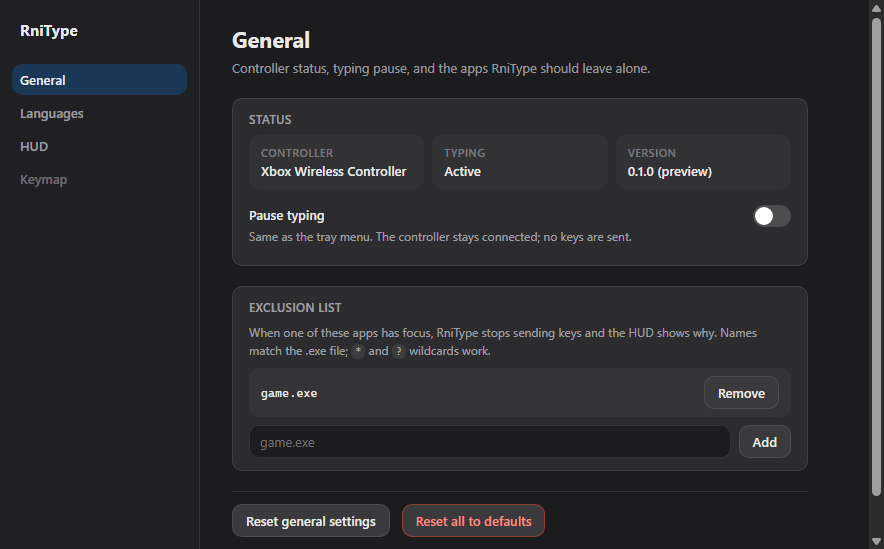
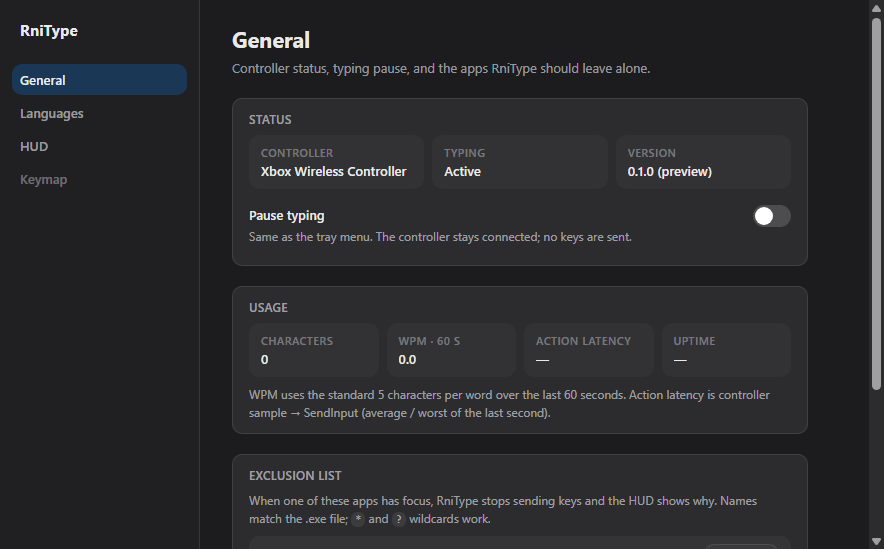
docs: ADR-26 + handoff v1.0 for P6 slice 1

diff --git a/project menager/Design/HANDOFF.md b/project menager/Design/HANDOFF.md
@@ -1,11 +1,11 @@
 ---
 title: HANDOFF — RniType (อ่านก่อนเริ่ม session ใหม่)
-status: v0.9
+status: v1.0
 updated: 2026-11-16
 tags: [handoff]
 ---
 
-# HANDOFF — RniType v0.9 (2026-11-16)
+# HANDOFF — RniType v1.0 (2026-11-16)
 
 > เอกสารนี้ทำให้ session ใหม่ทำงานต่อได้ใน \~5 นาที · อ่านจบ = รู้ทุกอย่างที่จำเป็น
 
@@ -15,11 +15,11 @@ tags: [handoff]
 | --- | --- |
 | ผลิตภัณฑ์ | Windows background utility: จอย Xbox/DualSense ใช้ **พิมพ์แทนคีย์บอร์ด** และ **แทนเมาส์** มีหน้าตั้งค่าแบบ Logi Options+ |
 | ช่องทางขาย | Steam + itch.io (ทั้งคู่รับ .exe/.zip — ไม่ต้องใช้เอนจิน) |
-| สถานะ | **P0/P1 ปิด · P2 slice 4 · P3 slice 2 · P4/P5 slice 1–2 · visual refresh (ADR-22) · runtime จอยจริงพิมพ์ได้ — 201 tests** |
+| สถานะ | **P0/P1 ปิด · P2 slice 4 · P3 slice 2 · P4/P5 slice 1–2 · P6 slice 1 (WPM/latency) · visual refresh (ADR-22) — 205 tests** |
 | สแตก | **Rust** (core) + **Tauri v2** (UI/tray) + **gilrs** (จอย, XInput) + `SendInput` (auto scancode/Unicode) |
 | แผนสำรอง | C# .NET 8 + WPF/WinUI (ถอยได้ทุกเมื่อ เอกสารใช้ร่วมกันได้) |
-| งานถัดไป | **P5 Keymap editor** (ต้อง universal QWERTY mapping) หรือ **P6** วัด WPM/latency/installer |
-| ค้างยืนยัน | owner retest ADR-20 + quick bar/caret/sticky drag + exclusion/scancode + **Settings General/Languages บนแอปจริง** — ดู §4.8 |
+| งานถัดไป | **P5 Keymap editor** (ต้อง universal QWERTY mapping) หรือ **P6 ที่เหลือ** (error rate/CPU, installer) |
+| ค้างยืนยัน | owner retest ADR-20 + quick bar/caret/sticky drag + exclusion/scancode + Settings + **WPM/latency กับจอยจริง** — ดู §4.8 |
 
 ## 2. การตัดสินใจที่ล็อกแล้ว (ห้ามถามซ้ำ)
 
@@ -46,6 +46,7 @@ tags: [handoff]
 22. **P2 slice 4 (ADR-23)**: **Quick bar = LB ค้าง 150 ms** (แตะสั้นไม่เปิด · ปล่อย LB = ปิด · ดัน LS = ปิดแล้วพิมพ์ Ctrl+ตัวอักษร) ช่อง ↑Copy ↗Paste →Cut ↘Undo ↓Redo ↙Select All ←Save ↖Alt+Tab · **caret = R3** (RS = ลูกศร 350/90 ms · R3×2 < 280 ms = Shift+ลูกศร · ไม่มีวง เหลือกากบาท) · **sticky drag = RB 2 แตะ** ใน Mouse (แตะอีกครั้ง = ปล่อย; session ปล่อยปุ่มให้เมื่อสลับ mode) · **pivot clamp ฝั่งแอป** margin 172×`hudScale` จากขอบ virtual desktop · `KeyPress` มี `alt` แล้ว — [[23-quickbar-caret-sticky-drag-pivot-clamp]]
 23. **P3 slice 2 (ADR-24)**: **exclusion/UIPI guard** ตรวจ foreground ทุก 250 ms → exe ใน `system.exclusion` หรือ target elevated → หยุด `session.step`, HUD `disabled` + เหตุผล, กลับมาเป็น mode เดิม · **scancode path อัตโนมัติ** (`VkKeyScanExW` + `MapVirtualKeyExW` ตาม HKL ของ foreground) → เกม/IME เห็นเหมือนคีย์บอร์ดจริง, พิมพ์ไม่ได้ = Unicode fallback, `--no-scancode` ปิดได้ · **`timeBeginPeriod(1)`** ระหว่างรัน loop — [[24-target-guard-scancode-timer]]
 24. **P5 slice 2 (ADR-25)**: **General** = status (`get_status`/`app:status`) + Pause + **exclusion list UI** · **Languages** = `GetKeyboardLayoutList` → EN/TH built-in แสดงเสมอ, EN = base (locked), ภาษาอื่นต้องมี mapping, เปิดได้ ≤ 8 · **live reload** `config_rev` → runtime เปลี่ยนภาษา/pivot clamp ภายใน 250 ms · Reset แยก section (general/hud/languages/all) — [[25-settings-general-languages-live-reload]]
+25. **P6 slice 1 (ADR-26)**: **WPM = 5 ตัวอักษร/คำ ในหน้าต่าง 60 วิ** (นับเฉพาะ `Key::Char`) · **action latency** = เวลา `session.step` (avg/max ต่อวินาที) · log `[stats]` ทุก 10 วิ + การ์ด Usage ใน Settings General (`get_stats`) — [[26-usage-stats-wpm-latency]]
 
 ## 3. โครงสร้างไฟล์
 
@@ -79,7 +80,8 @@ project menager/
    │  ├─ 22-visual-refresh-apple-style.md ← ADR-22 tokens/HUD plate/Settings sidebar
    │  ├─ 23-quickbar-caret-sticky-drag-pivot-clamp.md ← ADR-23 quick bar/caret/sticky drag/pivot clamp
    │  ├─ 24-target-guard-scancode-timer.md ← ADR-24 exclusion/UIPI · scancode · 1 ms timer
-   │  └─ 25-settings-general-languages-live-reload.md ← ADR-25 General/Languages · exclusion UI · live reload
+   │  ├─ 25-settings-general-languages-live-reload.md ← ADR-25 General/Languages · exclusion UI · live reload
+   │  └─ 26-usage-stats-wpm-latency.md ← ADR-26 WPM 60 วิ · action latency · Usage cards
    └─ 05-mockup/
       ├─ hud-prototype/        ← ม็อกอัป HUD v0.11 (อ้างอิงดีไซน์ ไม่ใช่ของจริง)
       └─ hud-shots/            ← screenshot ตรวจรับ (100%/150% DPI, overlay จริง, Settings, runtime)
@@ -100,8 +102,9 @@ project menager/
 | `crates/rnitype-win/src/target.rs` | foreground exe + elevated (exclusion/UIPI guard) |
 | `crates/rnitype-win/src/timer.rs` | `timeBeginPeriod(1)` แบบ RAII |
 | `crates/rnitype-win/src/language.rs` | `GetKeyboardLayoutList` → code/label/kind (layout vs IME) |
+| `crates/rnitype-app/src/stats.rs` | WPM (5 ตัวอักษร/คำ) · format latency/uptime |
 | `ui/hud/{index.html,hud.css,hud.js}` | HUD จริง — วาดจาก `hud:state` · typography จาก `hud:style` |
-| `ui/settings/*` | Settings window — General (status/pause/exclusion) · Languages (rescan) · HUD (size/font) · Reset |
+| `ui/settings/*` | Settings window — General (status/pause/exclusion/usage) · Languages (rescan) · HUD (size/font) · Reset |
 | `ui/shared/{tokens.css,fonts.css,fonts.js,fonts/*.ttf}` | สี + ฟอนต์ (IBM Plex Sans Thai + Noto Sans Thai + OFL) |
 | `tools/tests/{browser,hud-smoke,hud-typography,settings-smoke}.mjs` | CDP · 54 mockup · 36 HUD · 19 Settings checks |
 
@@ -123,13 +126,14 @@ project menager/
 | P2 core | วงคำสั่ง/วงภาษา/mode/shift/face buttons + **slice 3: mouse math, Nav pivot, auto-repeat, layer 2, double-tap/hold** + **slice 4: quick bar, caret nav, sticky drag, pivot clamp** (98 tests) | — (P2 ปิด; เหลือแค่ mixed-DPI) |
 | P3 win | SendInput Unicode/VK/mouse + **HWheel** + Ctrl+ASCII→VK + **Alt** + **scancode auto** + **exclusion/UIPI guard** + **1 ms timer** (56 tests) | Task Scheduler/"Run as admin" (P6) |
 | P4 HUD | renderer ครบ mode + overlay + typography + **visual refresh ADR-22** + **quickbar/caret mode** + `HudState` จริง (+ `layer`/`repeat`/`pointer`) (36 checks) | latency, pivot per-monitor/mixed-DPI |
-| Runtime | `input.rs` + `session.rs` + tray Pause + resend/heartbeat + single instance + **mouse/Nav recenter/reset** + **sticky-drag safety release** + **pivot clamp** + **guard/pause คืน mode เดิม** + **live config reload** | ทดสอบ mouse/Nav/quickbar/caret กับจอยจริง |
-| P5 Settings | slice 1: หน้าต่าง + HUD tab + persist · slice 2: **General (status/pause/exclusion) + Languages (rescan/enable) + Reset แยกส่วน + live reload** (19 checks) | Keymap editor (รอ universal mapping) · profiles · autostart/runAsAdmin จริง |
+| Runtime | `input.rs` + `session.rs` + tray Pause + resend/heartbeat + single instance + **mouse/Nav recenter/reset** + **sticky-drag safety release** + **pivot clamp** + **guard/pause คืน mode เดิม** + **live config reload** + **WPM/commit stats** | ทดสอบ mouse/Nav/quickbar/caret กับจอยจริง |
+| P5 Settings | slice 1: หน้าต่าง + HUD tab + persist · slice 2: **General (status/pause/exclusion) + Languages (rescan/enable) + Reset แยกส่วน + live reload** (20 checks) | Keymap editor (รอ universal mapping) · profiles · autostart/runAsAdmin จริง |
+| P6 measurement | slice 1: **WPM 60 วิ + action latency + uptime** (`[stats]` log + Usage cards) | error rate, CPU, คนจริง, installer/Steam/itch |
 
 ### 4.3 ขั้นถัดไป (เรียง)
 
 1. **P5 Keymap editor** — ต้องทำ universal QWERTY mapping (`ToUnicodeEx`) ใน core ก่อน แล้วค่อยเปิดแท็บ Keymap (8×8 + override + reset group)
-2. **P6** — วัด WPM/latency, ทดสอบคนจริง, installer/Steam/itch, Task Scheduler/"Run as admin"
+2. **P6 ที่เหลือ** — error rate (reference text/diff), CPU/RAM, ทดสอบคนจริง, installer/Steam/itch, Task Scheduler/"Run as admin"
 3. **P2 ที่เหลือ (เล็ก)** — pivot clamp แบบ per-monitor/mixed-DPI (ตอนนี้ clamp ด้วย virtual desktop เดียว)
 
 ### 4.4 รัน / ตรวจ
@@ -143,11 +147,11 @@ crates\rnitype-app\run.ps1 --demo --settings --seconds 30  # HUD จาก state
 ```
 
 ```powershell
-cargo test --workspace                      # 201 tests
+cargo test --workspace                      # 205 tests
 node tools/contracts/validate.mjs           # 12/12
 node tools/tests/hud-smoke.mjs              # 54/54 (ม็อกอัป)
 node tools/tests/hud-typography.mjs         # 36/36 + screenshot
-node tools/tests/settings-smoke.mjs         # 19/19 + screenshot Settings
+node tools/tests/settings-smoke.mjs         # 20/20 + screenshot Settings
 ```
 
 - Tray: **คลิกซ้าย = Settings** · คลิกขวา = Pause typing / Settings… / Quit
@@ -208,6 +212,7 @@ node tools/tests/settings-smoke.mjs         # 19/19 + screenshot Settings
 14. **Settings General (ADR-25)**: เปิด Settings → Controller ต้องขึ้นชื่อจอย · ติ๊ก Pause → HUD/pill เป็น Paused · เพิ่ม `notepad.exe` ใน Exclusion → โฟกัส Notepad แล้วพิมพ์ไม่ออก pill บอกเหตุผล · ลบออกแล้วพิมพ์ได้
 15. **Settings Languages (ADR-25)**: เปิดแท็บ Languages → ต้องเห็น EN (Detected/Locked) + TH (Built-in) · ปิด TH → log `[config] runtime reload: languages=0` และวงภาษาไม่มี TH · เปิดกลับ → มี TH
 16. **Reset (ADR-25)**: Reset languages → config `languages: []` (EN/TH กลับมา) · Reset general **ต้องไม่ลบ exclusion** · Reset all คืนทั้งไฟล์
+17. **Usage stats (ADR-26)**: เปิด Settings → General → พิมพ์ด้วยจอยจริง ~1 นาที → Characters/WPM ต้องขยับ · log ต้องมี `[stats] chars=… wpm=… step avg=… max=… uptime=…` ทุก 10 วิ · รายงาน WPM ไทย/อังกฤษเทียบเป้า 12/20
 
 ### 4.9 P2 slice 4 (2026-11-16) — ✅ ปิดแล้ว (ADR-23)
 
@@ -240,6 +245,17 @@ node tools/tests/settings-smoke.mjs         # 19/19 + screenshot Settings
 | Reset | `reset_config { section }` — general ไม่ล้าง exclusion · languages กลับ EN/TH · hud เฉพาะ typography · all = default |
 | ตัวเลข | cargo **201** (core 98 · win 56 · app 47) · settings-smoke **19/19** · E2E WebView จริง: ปิด TH → `languages=0`, เปิด → `languages=1`; exclusion add/remove เขียน config ถูก |
 
+### 4.12 P6 slice 1 (2026-11-16) — ✅ ปิดแล้ว (ADR-26)
+
+| เรื่อง | ผล |
+| --- | --- |
+| WPM | `Session` เก็บ commit 60 วิ (เฉพาะ `Key::Char`) → WPM = chars/5 · ไม่นับปุ่ม named/เมาส์/คีย์ลัด |
+| Action latency | วัดเวลา `session.step` (state machine + SendInput) เป็น avg/max ต่อวินาที |
+| Log | `[stats] chars=15 wpm=3.0 actions=15 step avg=0.005 ms max=0.748 ms uptime=10s` (ทุก 10 วิ) |
+| Settings | General → Usage 4 ช่อง (Characters / WPM · 60 s / Action latency / Uptime) ผ่าน `get_stats` ทุก 1 วิ |
+| E2E จริง | WebView อ่านการ์ดได้ `chars=75 wpm=15.0 latency=0.004/0.85 ms uptime=51s` (fake-pad) |
+| ตัวเลข | cargo **205** (core 98 · win 56 · app 51) · settings-smoke **20/20** |
+
 ## 5. คำถามที่ยังค้าง
 
 | # | เรื่อง | ข้อเสนอ |
@@ -254,7 +270,7 @@ Q1, Q2, Q5, Q15, Q16, Q17 = ตัดสินแล้ว
 ## 6. Environment & เคล็ดลับ debug
 
 - vault = `D:\Erin's Works\Programming\RniType` — เขียนเฉพาะในนี้ · MCP `nizylanote` เรียก `vault_info` ก่อนเขียน
-- **Git**: commit ก่อน session นี้ `4cba441` (handoff v0.8) · P5 slice 2 = `d3f17a2` (+ docs commit ถัดจากนั้น) · commit งานเป็นชุด `feat(...)` + `docs(...)` (`.nznote/`, `.opencode/` ถูก ignore)
+- **Git**: commit ก่อน session นี้ `4cba441` (handoff v0.8) · P5 slice 2 = `d3f17a2` · P6 slice 1 = `c3a7404` (+ docs commit ถัดจากนั้น) · commit งานเป็นชุด `feat(...)` + `docs(...)` (`.nznote/`, `.opencode/` ถูก ignore)
 - **เทอร์มินัล cp874** → log ไทยใน console เป็น `???` (ไม่ใช่บั๊ก) · ไฟล์เป็น UTF-8
 - **PowerShell กิน `--` ตัวแรก** → `run.ps1` เติมให้แล้ว ใช้ `run.ps1 --seconds 30`
 - `Chrome_WidgetWin_0 ... 1412` ตอนปิด = WebView2 noise ไม่มีผล
@@ -262,6 +278,8 @@ Q1, Q2, Q5, Q15, Q16, Q17 = ตัดสินแล้ว
 - **guard** ตรวจทุก 250 ms — ระหว่างถูกกัน `[pad-log]` ยังเดินแต่ไม่มี `[type]` ออก
 - **Settings → runtime**: เปลี่ยนภาษา/ขนาดวงมีผลภายใน 250 ms ผ่าน `config_rev` · ถ้าไม่เห็น log `[config] runtime reload` แปลว่า command ไม่ได้เขียน config
 - **Languages บนเครื่องนี้**: Windows มี layout EN ตัวเดียว → TH ขึ้นเป็น `Built-in` (ตารางในแอป) ไม่ใช่ `Detected`
+- **WPM จาก `--fake-pad`** (~15–17) เป็นแค่การพิสูจน์ท่อ ไม่ใช่ตัวเลขผู้ใช้จริง — owner ต้องวัดกับจอย
+- **latency** วัดฝั่งเรา (`session.step`) ไม่รวมเวลา OS/เกมประมวลผลคีย์
 - **Chrome headless**: `C:\Users\User\AppData\Local\ms-playwright\chromium-1208\chrome-win64\chrome.exe` (`CHROME_PATH`)
 - เครื่องนี้ 2 จอ: virtual desktop 3840×1080 เริ่มที่ x = −1920 · จอหลัก 1920×1080 (pivot เริ่มที่กลางจอหลัก)
 

diff --git a/project menager/Design/04-decisions/26-usage-stats-wpm-latency.md b/project menager/Design/04-decisions/26-usage-stats-wpm-latency.md
@@ -1,0 +1,55 @@
+---
+title: ADR-26 — Usage stats: WPM + action latency (P6 slice 1)
+status: accepted
+updated: 2026-11-16
+tags: [decision, measurement, stats, settings]
+---
+
+# ADR-26 — P6 slice 1: ตัวเลข WPM / action latency / uptime
+
+## บริบท
+
+Roadmap กำหนดว่า "ทุก loop ต้องมีตัวเลข: WPM, error rate, latency, CPU — ไม่มีตัวเลข = ยังไม่เสร็จ"
+แต่ก่อนหน้านี้ runtime มีแค่ `sent` (จำนวน action) และ log `[type]` — ไม่มี WPM หรือ latency
+ให้ owner ใช้ตัดสินว่าเร็วพอหรือยัง (เป้า M5: 12 WPM ไทย · 20 WPM อังกฤษ)
+
+## การตัดสินใจ
+
+### 1. WPM = 5 ตัวอักษรต่อคำ (หน้าต่าง 60 วินาที)
+
+- `Session` เก็บ `commits: VecDeque<Instant>` — push ทุกครั้งที่ส่ง `Action::Key` ที่เป็น `Key::Char`
+  (ปุ่ม named/ลูกศร/เมาส์/คีย์ลัดไม่นับ)
+- ตัดรายการที่เก่ากว่า 60 วิทุกครั้งที่ push → WPM = `commits.len() / 5`
+- `chars` = ยอดตลอด session (ใช้เทียบกับ log)
+- สูตรอยู่ใน `crates/rnitype-app/src/stats.rs` (`wpm()`) — test ได้โดยไม่ต้องมีนาฬิกา
+
+**ทำไม 60 วิ**: ค่า WPM ต้องตอบ "ตอนนี้เร็วแค่ไหน" ไม่ใช่เฉลี่ยทั้งวัน (คนพักกลางทางทำค่าเฉลี่ยตกลวง)
+
+### 2. Action latency = เวลาของ `session.step`
+
+- วัดรอบ `Instant::now()` ครอบ `session.step` (state machine + `SendInput`) ทุกเฟรม
+- เก็บ avg/max ต่อวินาที แล้วรีเซ็ตหน้าต่าง
+- ตัวเลข = **controller sample → ส่งคีย์ออก** (ส่วน poll จอยอยู่ใน `sample` ก่อนหน้า ~4 ms)
+- `SendInput` คืนเร็ว (0.01 ms avg) แต่มี spike (max ~1.8 ms) จาก scheduler — รายงานทั้งคู่
+
+### 3. ที่แสดงผล
+
+| ที่ | ข้อมูล |
+| --- | --- |
+| log ทุก 10 วิ | `[stats] chars=15 wpm=3.0 actions=15 step avg=0.005 ms max=0.748 ms uptime=10s` |
+| `AppState.stats` | อัปเดตทุก 1 วิ — Settings อ่านผ่าน `get_stats` |
+| Settings → General → Usage | Characters · WPM · 60 s · Action latency (avg / max) · Uptime |
+
+`get_stats` เป็น command เพิ่ม (additive) — ไม่แตะ event `app:status`
+
+### 4. ข้อจำกัดที่บันทึกไว้
+
+- WPM จาก `--fake-pad` (~17 WPM steady) **ไม่ใช่ตัวเลขผู้ใช้จริง** — ต้องรอ owner ทดสอบกับจอย
+- ยังไม่วัด error rate (ต้องมี reference text/diff) และ CPU — P6 slice ถัดไป
+- latency ยังไม่รวมเวลาที่ OS/game ใช้ประมวลผลคีย์ (วัดได้แค่ฝั่งเรา)
+
+## ผลที่ตามมา
+
+- `cargo test --workspace` = **205 tests** (core 98 · win 56 · app 51)
+- log จริง: `chars=15 wpm=3.0 actions=15 step avg=0.005 ms max=0.748 ms uptime=10s` (และ steady ~15–17 WPM จาก fake-pad)
+- Settings General มีการ์ด Usage 4 ช่อง · settings-smoke = **20/20**

diff --git a/project menager/Design/03-engineering/02-roadmap-and-smoke-tests.md b/project menager/Design/03-engineering/02-roadmap-and-smoke-tests.md
@@ -49,7 +49,7 @@ tags: [plan, testing]
 | `tools/contracts/validate.mjs` | ตรวจ `hud-state.samples.json` + `config.sample.json` กับ schema | **12/12** |
 | `tools/tests/hud-smoke.mjs` | ขับม็อกอัป v0.11 ด้วย CDP (วง/คำสั่ง/โหมด/สถานะ) | **54/54** |
 | `tools/tests/hud-typography.mjs` | ตรวจขนาดขั้นต่ำ/การชนกัน/contrast/emphasis + quick bar/caret + screenshot 100%–150% DPI | **36/36** |
-| `cargo test --workspace` | core 98 · win 56 · app 47 (config/input/session) | **201/201** |
+| `cargo test --workspace` | core 98 · win 56 · app 51 (config/input/session/stats) | **205/205** |
 
 **ชุดประโยคทดสอบ**: ใช้ 500 phrases ของ MacKenzie & Soukoreff (มาตรฐานงานวิจัย text entry)
 → ผลของเราจะเทียบกับงานวิจัย (TwoStick 13–14.9 WPM) ได้ตรงๆ
@@ -70,6 +70,7 @@ tags: [plan, testing]
 | 2026-11-16 | P2 slice 4 | — | — | — | — | ADR-23: Quick bar LB (8 ช่อง + Alt+Tab) · caret R3 (350/90 ms, R3×2 = select) · sticky drag RB×2 · pivot clamp 172×scale · **166 tests** · contracts 12/12 · typography 36/36 |
 | 2026-11-16 | P3 slice 2 | — | — | — | — | ADR-24: exclusion/UIPI guard (250 ms) · scancode auto ตาม HKL + Unicode fallback · `timeBeginPeriod(1)` · tray unpause คืน mode · **188 tests** · log `[timer] เปิด`/`[inject] auto scancode` |
 | 2026-11-16 | P5 slice 2 | — | — | — | — | ADR-25: General (status/pause/exclusion UI) · Languages (HKL scan, EN/TH built-in, IME badge) · `config_rev` live reload · reset แยกส่วน · **201 tests** · settings-smoke **19/19** · E2E ปิด TH → `languages=0` |
+| 2026-11-16 | P6 slice 1 | 3.0\* | — | — | avg 0.005 / max 0.748 (action) | ADR-26: WPM 60 วิ (5 ตัวอักษร/คำ) · action latency avg/max · `[stats]` ทุก 10 วิ · Usage cards · **205 tests** · settings-smoke **20/20** · \*fake-pad steady ~15–17 WPM (ยังไม่ใช่ผู้ใช้จริง) |
 
 ## 5. ความเสี่ยงและทางถอย
 

diff --git a/project menager/Design/README.md b/project menager/Design/README.md
@@ -67,6 +67,7 @@ updated: 2026-11-15
 | [[23-quickbar-caret-sticky-drag-pivot-clamp]] | ADR: Quick bar (LB), caret nav (R3), sticky drag (RB×2), pivot clamp ฝั่งแอป |
 | [[24-target-guard-scancode-timer]] | ADR: exclusion/UIPI guard, scancode path อัตโนมัติ, `timeBeginPeriod(1)` |
 | [[25-settings-general-languages-live-reload]] | ADR: Settings General/Languages + exclusion UI + live config reload |
+| [[26-usage-stats-wpm-latency]] | ADR: WPM 60 วิ · action latency · Usage cards + `[stats]` log |
 | [[hud-v0.9]] | บันทึก HUD: ภาพเทียบ A/B (v0.9) + สรุป v0.10 |
 | `05-mockup/hud-prototype/` | ม็อกอัป HUD v0.11 (เน้น EN+TH, หลายภาษา, Settings window, Keymap editor, pivot) |
 | `05-mockup/hud-shots/` | screenshot ตรวจรับ typography (100%/150% DPI), overlay จริง, Settings |
@@ -91,7 +92,7 @@ updated: 2026-11-15
 | หลักการ HUD | วงใน = สิ่งที่ LS เลือก · วงนอก = สิ่งที่ RS เลือก · idle เหลือ pill สถานะ (เปิดวงตลอดได้) |
 | ความปลอดภัย | **exclusion list** ต่อ exe (wildcard) + **UIPI guard** (target elevated) → หยุดส่ง + pill บอกเหตุผล · **scancode อัตโนมัติ** ตาม layout เป้าหมาย (เกม/IME) + Unicode fallback — [[24-target-guard-scancode-timer]] |
 | เทคโนโลยี | Rust + Tauri v2 + gilrs/SDL3 + SendInput (แผนสำรอง: C# .NET 8) — ดู [[03-stack-rust]] |
-| สถานะ | **P0/P1 ปิด · P2 slice 4 · P3 slice 2 · P4/P5 slice 1–2 · visual refresh (ADR-22) · runtime จอยจริง** — 201 tests |
+| สถานะ | **P0/P1 ปิด · P2 slice 4 · P3 slice 2 · P4/P5 slice 1–2 · P6 slice 1 (WPM) · visual refresh (ADR-22) · runtime จอยจริง — 205 tests** |
 
 ## หมายเหตุการทำงาน
 

diff --git a/project menager/Design/03-engineering/contracts/ipc.md b/project menager/Design/03-engineering/contracts/ipc.md
@@ -3,6 +3,7 @@
 > P1 freeze · version 1 · 2026-11-15
 > v1.1 (2026-11-15) — เพิ่ม `hud:style` (event) + `hud_style` (command) สำหรับ typography · additive ไม่แตะ payload เดิม (ADR-16)
 > v1.2 (2026-11-16) — ระบุรูปแถวของ `rescan_languages` / `set_language_enabled` และ `get_status` ที่ P5 slice 2 ใช้ (additive, ADR-25)
+> v1.3 (2026-11-16) — เพิ่ม `get_stats` (chars/WPM/action latency/uptime) สำหรับ Usage cards (additive, ADR-26)
 > ไฟล์นี้คือสัญญาที่ P3 (runtime), P4 (HUD), P5 (Settings) ต้องยึด
 > เปลี่ยนชื่อ/รูป payload = ต้อง bump `version` และแจ้ง lead
 
@@ -45,6 +46,7 @@
 | `import_profile` | `{ json }` | `Config` |
 | `set_paused` | `{ paused: bool }` | `{ paused: bool }` |
 | `get_status` | — | `app:status` payload |
+| `get_stats` | — | `{ chars, wpm, actions, stepAvgUs, stepMaxUs, uptimeSecs }` |
 | `open_settings` | `{ tab?: "general"\|"languages"\|"keymap"\|"hud" }` | `{ ok: true }` |
 
 ### HUD (read-only + lifecycle)
@@ -123,6 +125,21 @@ Settings ──invoke save_config──▶ app ──validate──▶ config.js
 
 `get_status` คืน payload เดียวกับ event `app:status` · `set_paused { paused }` คืน payload นั้น
 หลังเปลี่ยน (Settings ใช้แทนการคลิก tray)
+
+### `get_stats` — Usage cards (ADR-26)
+
+```json
+{
+  "chars": 75,
+  "wpm": 15.0,
+  "actions": 75,
+  "stepAvgUs": 4,
+  "stepMaxUs": 846,
+  "uptimeSecs": 51
+}
+```
+
+`wpm` = 5 ตัวอักษร/คำ จาก commits ใน 60 วิ · `step*Us` = เวลา `session.step` (µs) ต่อวินาทีล่าสุด
 
 ## 6. Error codes
 
